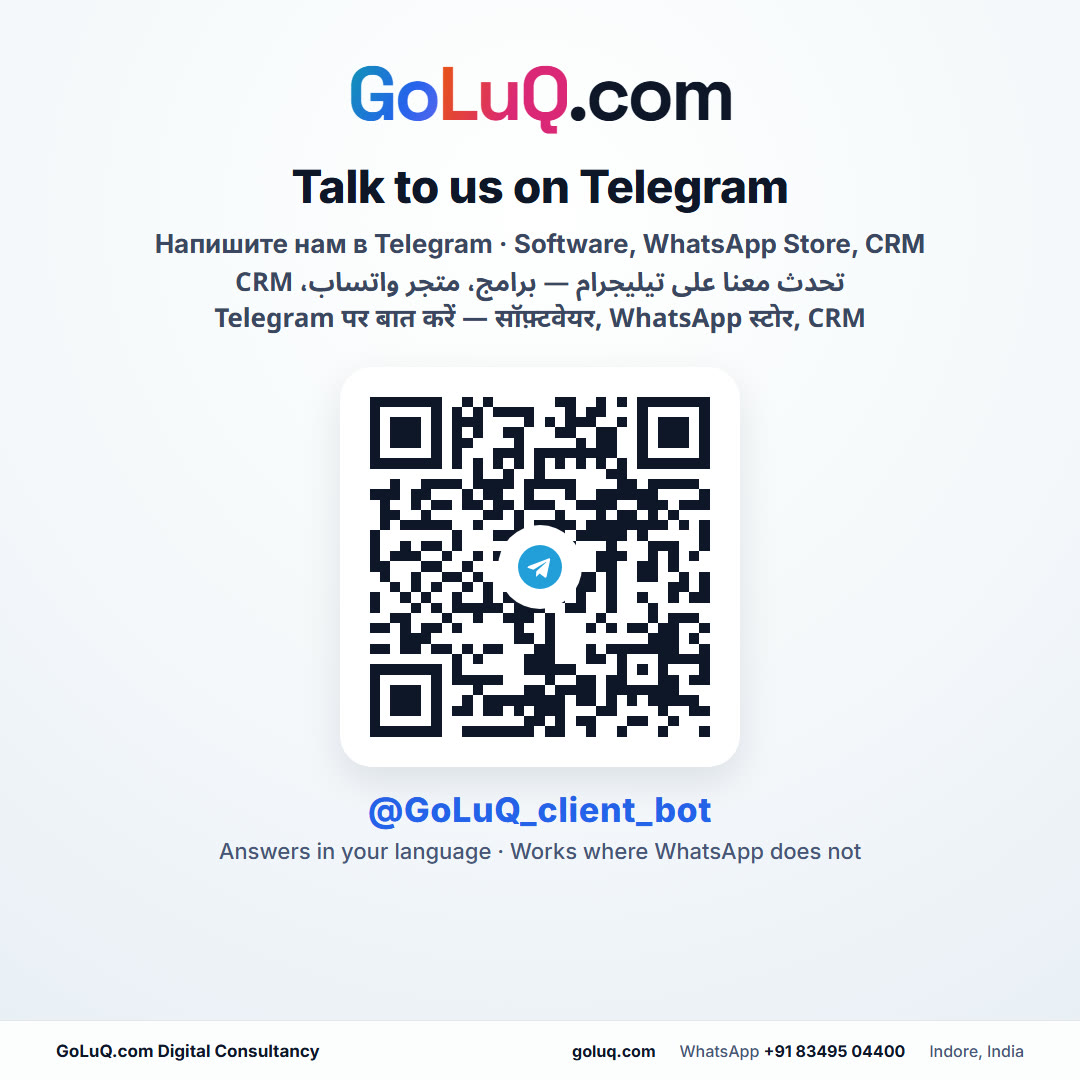
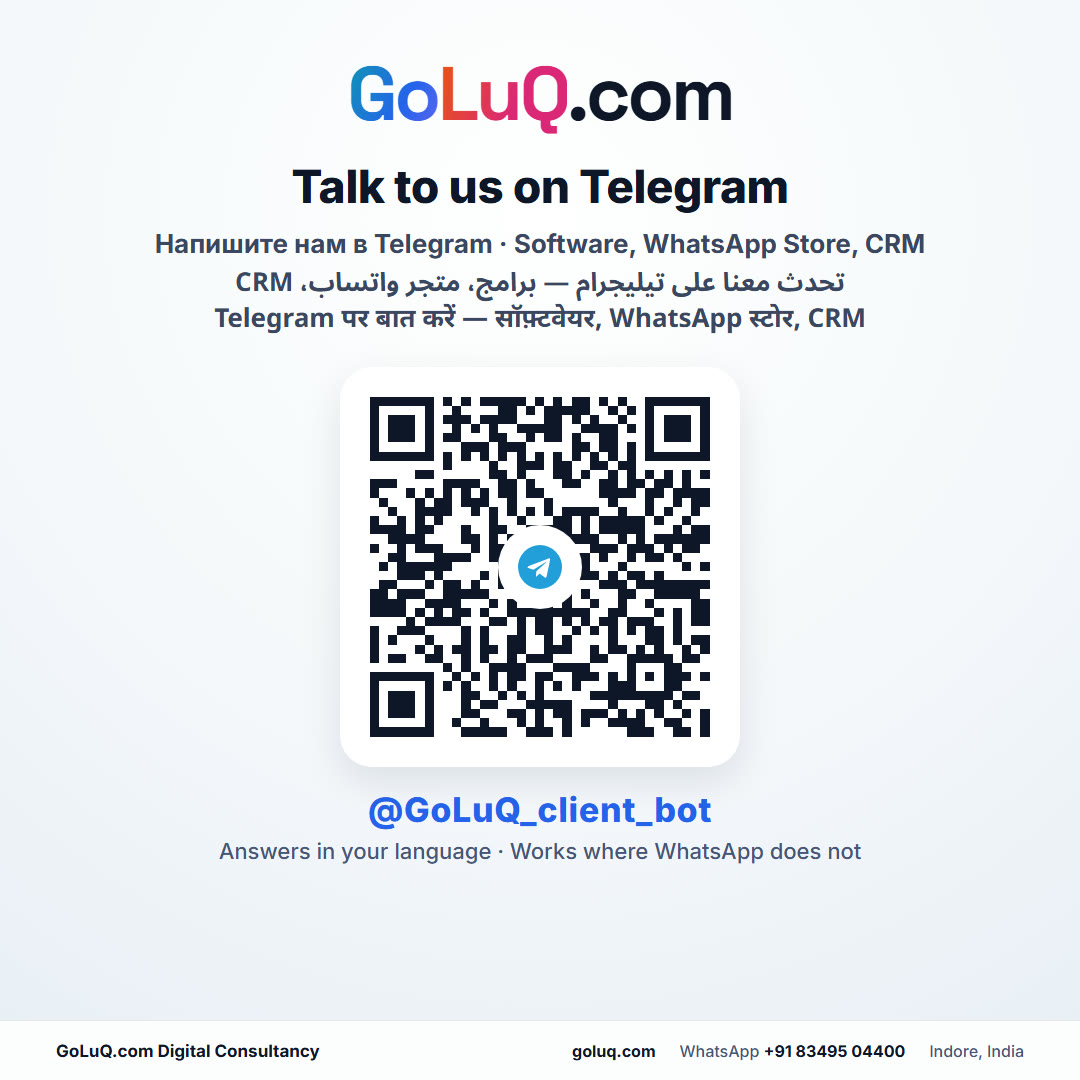
perf: particle background removed everywhere; Telegram QR card links with ?start=qr

Changed region(s): [[0.3361, 0.3667, 0.6722, 0.7028]]

diff --git a/src/main.tsx b/src/main.tsx
@@ -6,15 +6,11 @@ import { lazy, Suspense } from "react";
 import { WelcomeSplash } from "./components/WelcomeSplash";
 import App from "./App";
 
-// The particle canvas and the 3D backdrop are marketing dressing. They used to
-// mount on every route — the cockpit spent ~300 ms of every second drawing
-// particles behind a table, and downloaded a 928 KB scene it never showed.
-// Now: the particles only on marketing pages, the 3D scene only on /demo,
-// neither on the cockpit, portal, partner or intake pages.
-const AuroraBackground = lazy(() => import("./components/AuroraBackground").then((m) => ({ default: m.AuroraBackground })));
+// The 3D backdrop is demo dressing and mounts only on /demo. The particle
+// canvas is gone for good (owner's call, 2026-09-15): it cost ~300 ms of every
+// second on every page and said nothing about the business.
 const HoloBackground = lazy(() => import("./components/holo/HoloBackground").then((m) => ({ default: m.HoloBackground })));
 const path = window.location.pathname;
-const plainRoute = /^\/(admin|portal|partner|start|solutions|thanks)/.test(path);
 const demoRoute = path.startsWith("/demo");
 import "./i18n";
 import "./index.css";
@@ -46,7 +42,6 @@ if ("serviceWorker" in navigator) {
 createRoot(document.getElementById("root")!).render(
   <StrictMode>
     <ThemeProvider>
-      {!plainRoute && <Suspense fallback={null}><AuroraBackground /></Suspense>}
       {demoRoute && <Suspense fallback={null}><HoloBackground /></Suspense>}
       <VoiceProvider>
         <WelcomeSplash />
